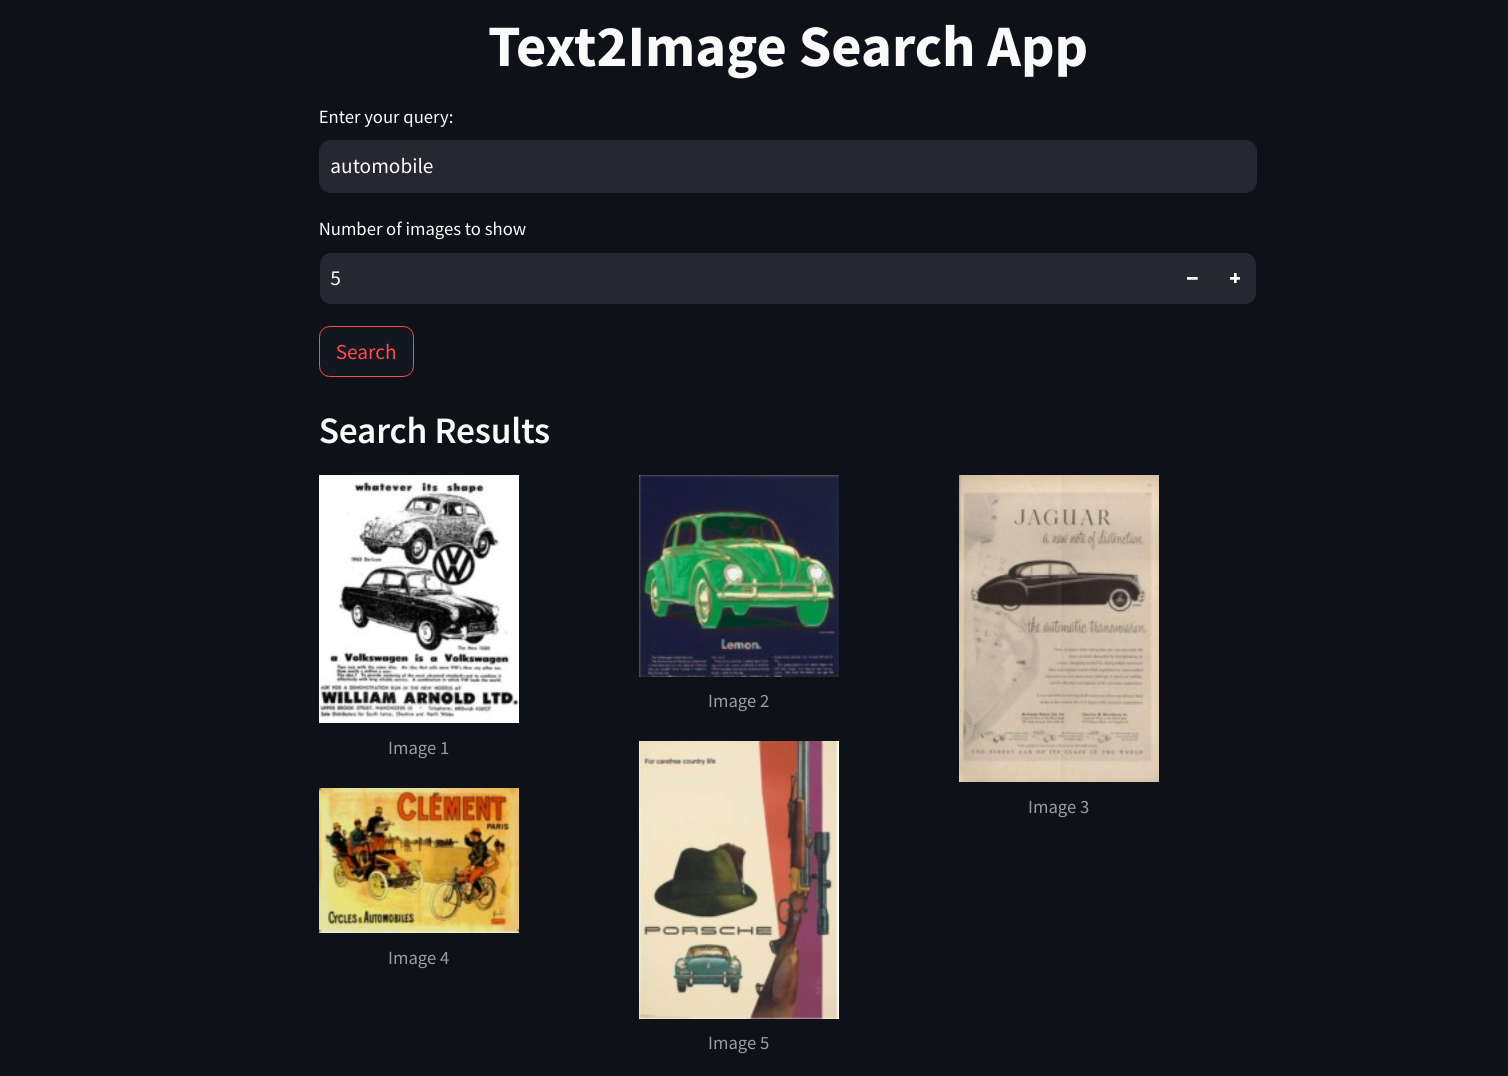
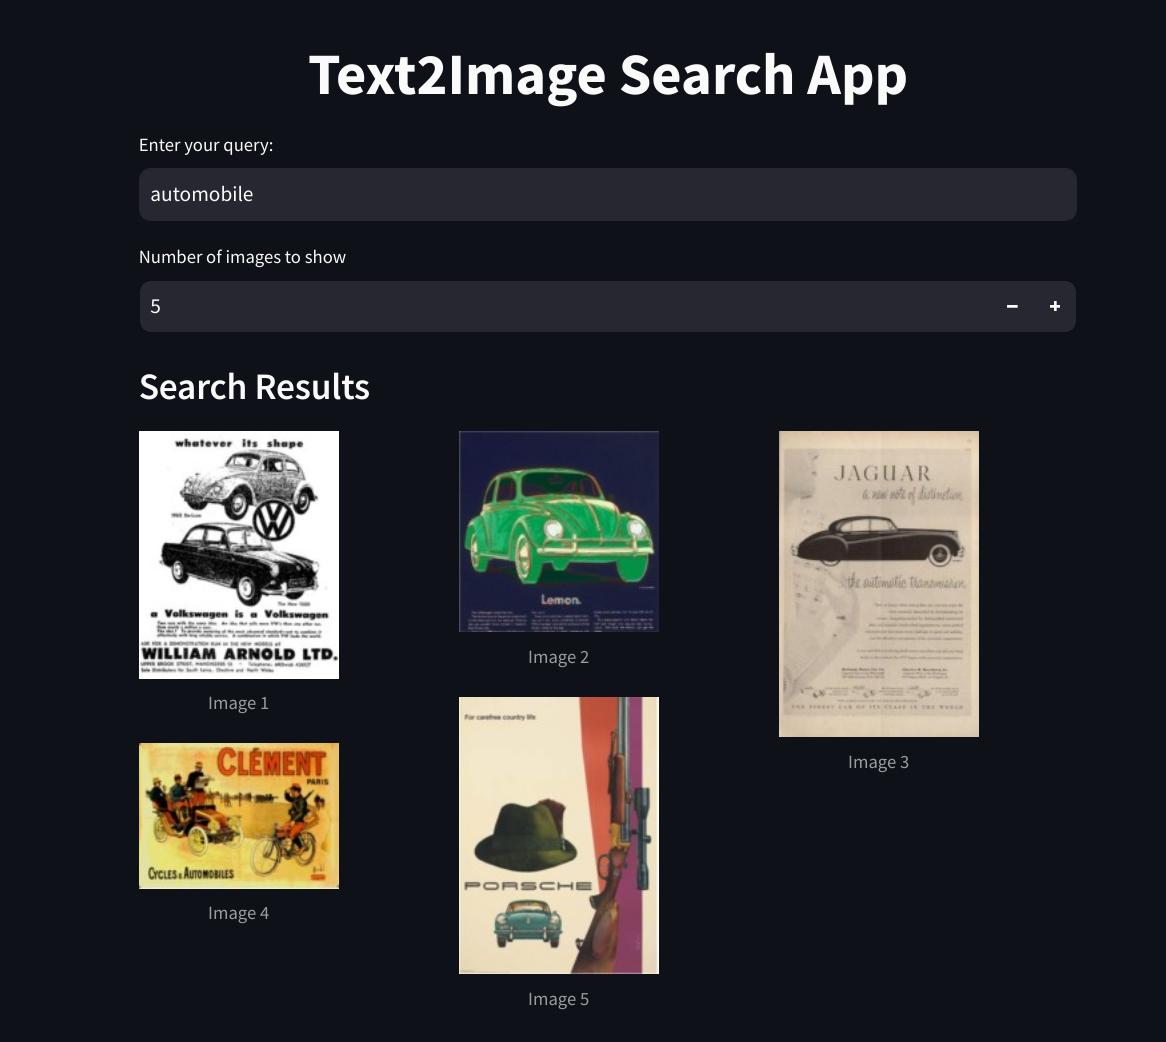
streamlit config

diff --git a/app.py b/app.py
@@ -31,7 +31,7 @@ def find_best_matches(query: str, embedder, qdclient, limit: int) -> List[str]:
     return hit_paths
 
 
-def display_images(images: List[str]) -> None:
+def display_results(images: List[str]) -> None:
     """
     Displays images horizontally using columns layout.
 
@@ -63,25 +63,22 @@ def main() -> None:
     Returns:
         None
     """
-
+    query = None
     st.markdown(
         "<h1 style='text-align: center;'>Text2Image Search App</h1>",
         unsafe_allow_html=True,
     )
     # Input query
-    query = st.text_input("Enter your query:")
+    query = st.text_input("Enter your query:", key="query_input")
     num_images = st.number_input(
         "Number of images to show", min_value=1, max_value=10, value=5
     )
 
-    # Button to trigger image search
-    if st.button("Search"):
+    if query:
+        # find results from qdrant
         images = find_best_matches(query, query_embedder, qdclient, num_images)
-        if images:
-            # Display images
-            display_images(images)
-        else:
-            st.write("No images found matching the query.")
+        # display search results
+        display_results(images)
 
 
 if __name__ == "__main__":

diff --git a/README.md b/README.md
@@ -76,3 +76,5 @@ The search system uses a steamlit application to interact and display results.
 ## Query Evaluation
 The results of query evaluations on the Text2Image Search implementation can be found in the `query_eval/query_evaluation.md` file. This document provides insights into the performance of the search system across various query types and scenarios.
 
+## Additional Improvements
+while the implemented Streamlit app interface prioritizes simplicity, there remains room for enhancing the user experience to ensure higher quality interactions.
